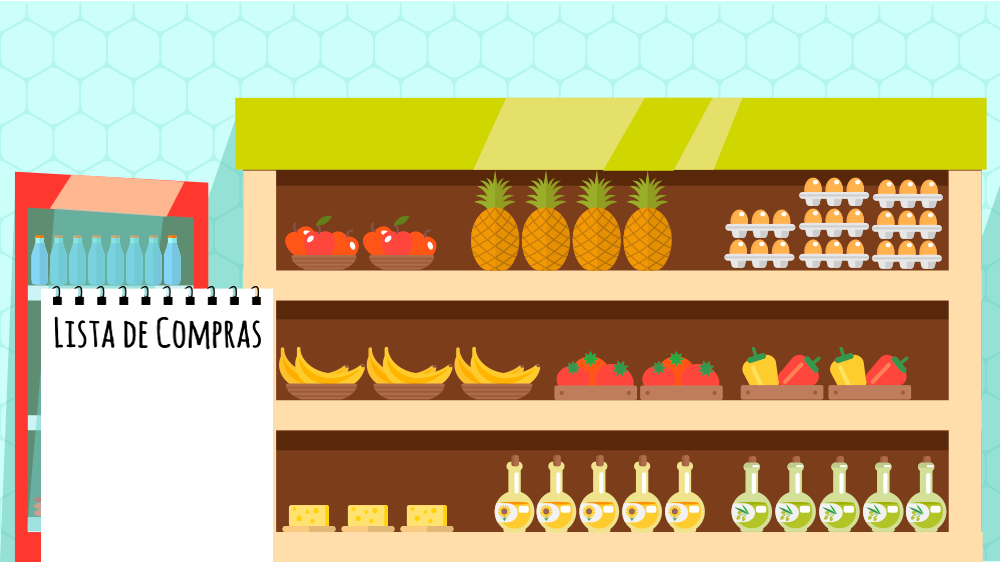
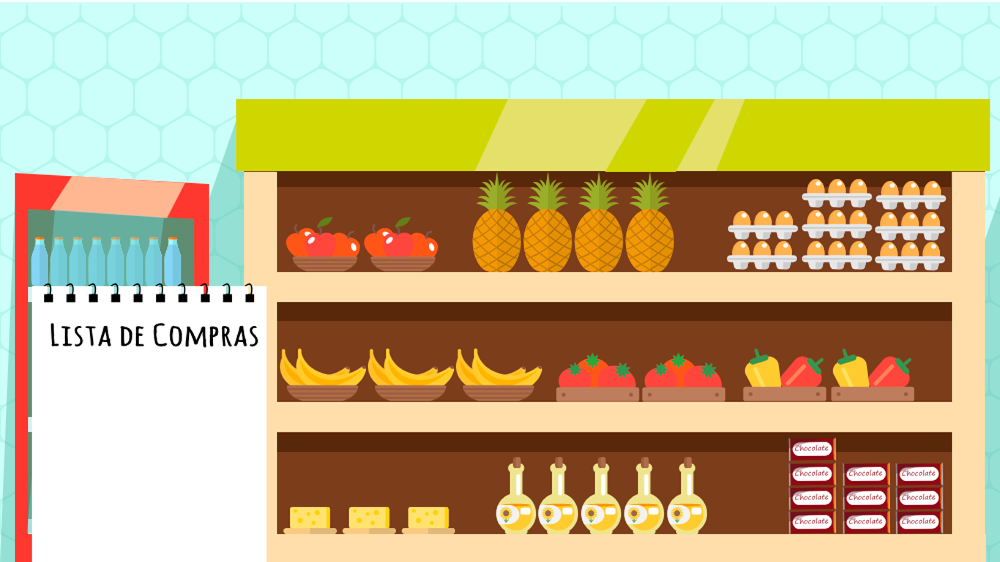
Tirando fliperama e finalizando supermercado

diff --git a/index.html b/index.html
@@ -96,7 +96,7 @@
 				<div id="ini_bt" onclick="f_saudacoes(); anima(2);">Boa tarde</div>
 				<div id="ini_bn" onclick="f_saudacoes(); anima(3);">Boa noite</div>
 			</div>
-				<img id="nextop" class="arrow2" onclick="nextop()" src="assets/images/arrow.png">
+				<img id="nextop" class="arrow2" onclick="nextop();" src="assets/images/arrow.png">
 			<div id="animacaozinha">
 				<canvas id="animation"></canvas>
 			</div>
@@ -117,8 +117,6 @@
 			<img id="pin_escola" src="assets/images/pin.png">
 			<input type="button" id="supermercado" onclick="trocarTela('#tela_supermercado1', 'bg_supermercado1')">
 			<img id="pin_supermercado" src="assets/images/pin.png">
-			<input type="button" id="parque" onclick="return trocarTela('#tela_parque', 'bg_parque')">
-			<img id="pin_parque" src="assets/images/pin.png">
 			<input type="button" id="sorveteria" onclick="return trocarTela('#tela_sorveteria', 'bg_sorveteria')">
 			<img id="pin_sorveteria" src="assets/images/pin.png">
 			<input type="button" id="fliperama" onclick="return trocarTela('#tela_fliperama', 'bg_fliperama')">
@@ -198,9 +196,8 @@
 		</div>		
 
 		<div id="tela_supermercado1">
-			<img src="assets/images/supermercado_next.png" class="next_super" onclick="return trocarTela('#tela_supermercado2', 'bg_supermercado2')">
 			<button class="butt_voltar" id="btn_voltar_mercado"> VOLTAR </button>
-			<button class="butt_pular" onclick="aprendi();">APRENDI</button>
+			<button class="butt_pular" id="aprendi_super" onclick="aprendi();">APRENDI</button>
 			<div id="voltar_mercado" class="modal">
 				<div class="modal-content">
 					<p class="text-center text-modal">Tem certeza que deseja voltar para a cidade?</p>
@@ -224,10 +221,12 @@
 			<canvas id="animation2"></canvas>
 			<canvas id="animation3"></canvas>
 			<canvas id="animation4"></canvas>
+			<canvas id="animation5"></canvas>
 			<!-- BOTÕES PRODUTOS -->			
 			<input type="button" id="item1" class="item_lista" name="maca" onclick="return item_encontrado('.p1')">
 			<input type="button" id="item2" class="item_lista" name="ovo" onclick="return item_encontrado('.p2')">
 			<input type="button" id="item3" class="item_lista" name="agua" onclick="return item_encontrado('.p3')">
+			<input type="button" id="item4" class="item_lista" name="chocolate" onclick="return item_encontrado('.p4')">
 			<input type="button" id="item5" class="item_lista" name="queijo" onclick="return item_encontrado('.p5')">
 		
 
@@ -241,34 +240,7 @@
 					<li class="p5">Queijo</li>
 				</ol>
 			</div>
-		</div>
-		<div id="tela_supermercado2">
-			<img src="assets/images/supermercado_back.png" class="back_super" onclick="return trocarTela('#tela_supermercado1', 'bg_supermercado1')">
-			<button class="butt_voltar" id="btn_voltar_mercado2"> VOLTAR </button>
-			<button class="butt_pular" onclick="aprendi();">APRENDI</button>
-			<div id="voltar_mercado2" class="modal">
-				<div class="modal-content">
-					<p class="text-center text-modal">Você tem certeza que deseja parar de jogar?</p>
-					<div class="btns_confirmacao">
-						<input type="button" id="close_mercado2" class="btn_alertas btn_alertas_nao" value=" Não ">	
-						<input type="button" id="sair_mercado2"  class="btn_alertas btn_alertas_sim" value=" Sim ">
-					</div>
-				</div>
-			</div>
-			<canvas id="animation5"></canvas>
-			<!-- BOTÕES PRODUTOS -->
-			<input type="button" id="item4" class="item_lista" name="chocolate" onclick="return item_encontrado('.p4')">
-
-			<!-- LISTA DE COMPRAS -->
-			<div class="lista_supermercado">
-				<ol>
-					<li class="p1">Maçã</li>
-					<li class="p2">Ovo</li>
-					<li class="p3">Água</li>
-					<li class="p4">Chocolate</li>
-					<li class="p5">Queijo</li>
-				</ol>
-			</div>
+			<img id="fim_super" src="assets/images/fim.png" />
 		</div>
 		<div id="tela_sorveteria">
 			<button class="butt_voltar" id="btn_voltar_sorveteria"> VOLTAR </button>
@@ -356,24 +328,6 @@
 			<canvas id="viewport" width="640" height="480"></canvas>
 		</div>
 
-		<div id="tela_parque">
-			<button class="butt_voltar" id="btn_voltar_parque"> VOLTAR </button>
-			<div id="voltar_parque" class="modal">
-				<div class="modal-content">
-					<p class="text-center text-modal">Você tem certeza que deseja parar de jogar?</p>
-					<div class="btns_confirmacao">
-						<input type="button" id="close_parque" class="btn_alertas btn_alertas_nao" value=" Não ">	
-						<input type="button" id="sair_parque"  class="btn_alertas btn_alertas_sim" value=" Sim ">
-					</div>
-				</div>
-			</div>
-			<img id="cadeado" src="assets/images/cadeado.png">
-			<div id="dialogo_parque">
-				<div class="caixa_dialogo">
-					<p id="di_par1">No momento você ainda não pode entrar aqui.</p>
-				</div>
-			</div>
-		</div>
 	</div>
 	<!-- ARQUIVOS JS -->
 	<script type="text/javascript" src="js/textos.js"></script>

diff --git a/js/modal.js b/js/modal.js
@@ -43,39 +43,13 @@ sair1.onclick = function() {
   for (var i = itens_coletados.length - 1; i >= 0; i--) {
     $(itens_coletados[i]).css("text-decoration", "none");
   };
+  document.getElementById("fim_super").style.display = "none";
+  document.getElementById("aprendi_super").style.zIndex = "1";
 }
 
 window.onclick = function(event) {
   if (event.target == modal) {
     modal1.style.display = "none";
-  }
-}
-
-// JODO DO SUPER MERCADO 2
-var modal2 = document.getElementById('voltar_mercado2');
-var btn2 = document.getElementById("btn_voltar_mercado2");
-var close2 = document.getElementById("close_mercado2");
-var sair2 = document.getElementById("sair_mercado2");
-
-btn2.onclick = function() {
-  modal2.style.display = "block";
-}
-
-close2.onclick = function() {
-  modal2.style.display = "none";
-}
-
-sair2.onclick = function() {
-	trocarTela('#tela_menu', 'bg_menu');
-  modal2.style.display = "none";
-  for (var i = itens_coletados.length - 1; i >= 0; i--) {
-    $(itens_coletados[i]).css("text-decoration", "none");
-  };
-}
-
-window.onclick = function(event) {
-  if (event.target == modal) {
-    modal2.style.display = "none";
   }
 }
 
@@ -137,29 +111,4 @@ sair4.onclick = function() {
   document.getElementById("x8").style.zIndex = "0"
   document.getElementById("x9").style.zIndex = "0"
   modal4.style.display = "none";
-}
-
-// JODO DO FLIPERAMA
-var modal5 = document.getElementById('voltar_parque');
-var btn5 = document.getElementById("btn_voltar_parque");
-var close5 = document.getElementById("close_parque");
-var sair5 = document.getElementById("sair_parque");
-
-btn5.onclick = function() {
-  modal5.style.display = "block";
-}
-
-close5.onclick = function() {
-  modal5.style.display = "none";
-}
-
-sair5.onclick = function() {
-  trocarTela('#tela_menu', 'bg_menu');
-  modal5.style.display = "none";
-}
-
-window.onclick = function(event) {
-  if (event.target == modal) {
-    modal5.style.display = "none";
-  }
 }

diff --git a/js/play.js b/js/play.js
@@ -31,7 +31,6 @@ $(document).ready(function () {
 	$("#tela_fliperama").hide();
 	$("#tela_fliperama2").hide();
 	$("#tela_sorveteria").hide();
-	$("#tela_parque").hide();
 	telaAtual = "#menu";
 	bg_image = "bg_inicio";
 	$("#top").hide();
@@ -70,7 +69,6 @@ function trocarTela(tela,bg){
 			$("#di_men").html(dialogo[id_di]);
 			document.getElementById("escola").style.opacity = 0; 
 			document.getElementById("supermercado").style.opacity = 0;
-			document.getElementById("parque").style.opacity = 0;
 			document.getElementById("sorveteria").style.opacity = 0;
 			document.getElementById("volta_menu").style.opacity = 0;
 			document.getElementById("fliperama").style.opacity = 0;
@@ -160,7 +158,6 @@ function falas(){
 			document.getElementById("volta_menu").style.opacity = 1;
 			document.getElementById("escola").style.opacity = 1;
 			document.getElementById("supermercado").style.opacity = 1;
-			document.getElementById("parque").style.opacity = 1;
 			document.getElementById("sorveteria").style.opacity = 1;
 			document.getElementById("fliperama").style.opacity = 1;
 		}else{

diff --git a/js/jogo_supermercado.js b/js/jogo_supermercado.js
@@ -1,5 +1,9 @@
 var itens_coletados = [];
 var add_itens = true
+var sair_super = false;
+var fim_super = document.getElementById("fim_super");
+
+fim_super.style.display = "none";
 
 function item_encontrado(id) {
 	$(id).css({"text-decoration": "line-through", "-webkit-text-decoration-color": "red", "text-decoration-color": "red"});
@@ -38,12 +42,16 @@ function item_encontrado(id) {
 	if(add_itens){
 		itens_coletados.push(id);
   		if(itens_coletados.length == 5) {
-  			fim();
+  			sair_super = true;
 		}
 	}
 
 }
 
-function fim() {
-	alert("Parabéns, você é top!");
-}
+$("#aprendi_super").click(function() { 
+	if(sair_super) {
+		fim_super.style.display = "block";
+		document.getElementById("aprendi_super").style.zIndex = "-1";
+		sair_super = false;
+	}
+});

diff --git a/js/menu.js b/js/menu.js
@@ -28,15 +28,6 @@ $(document).ready(function(){
     $("#sorveteria").mouseout(function(){
         $("#pin_sorveteria").css("display", "none");
     });
-
-    $("#parque").mouseover(function(){
-        $("#pin_parque").css("display", "block");
-    });
-
-    $("#parque").mouseout(function(){
-        $("#pin_parque").css("display", "none");
-    });
-
     $("#casa").mouseover(function(){
         $("#pin_casa").css("display", "block");
     });

diff --git a/css/bg.css b/css/bg.css
@@ -43,10 +43,6 @@
   background-image: url("../assets/images/supermercado01.png");   
 }
 
-.bg_supermercado2{
-  background-image: url("../assets/images/supermercado02.png");   
-}
-
 .bg_casa{
   background-image: url("../assets/images/bg_casa.jpg"); 
 }

diff --git a/css/style_supermercado.css b/css/style_supermercado.css
@@ -57,8 +57,8 @@
 #item4{
 	background-color: transparent;
 	position: absolute;
-    top: 175px;
-    left: 745px;
+    top: 440px;
+    left: 785px;
     padding: 40px 80px;
 }
 
